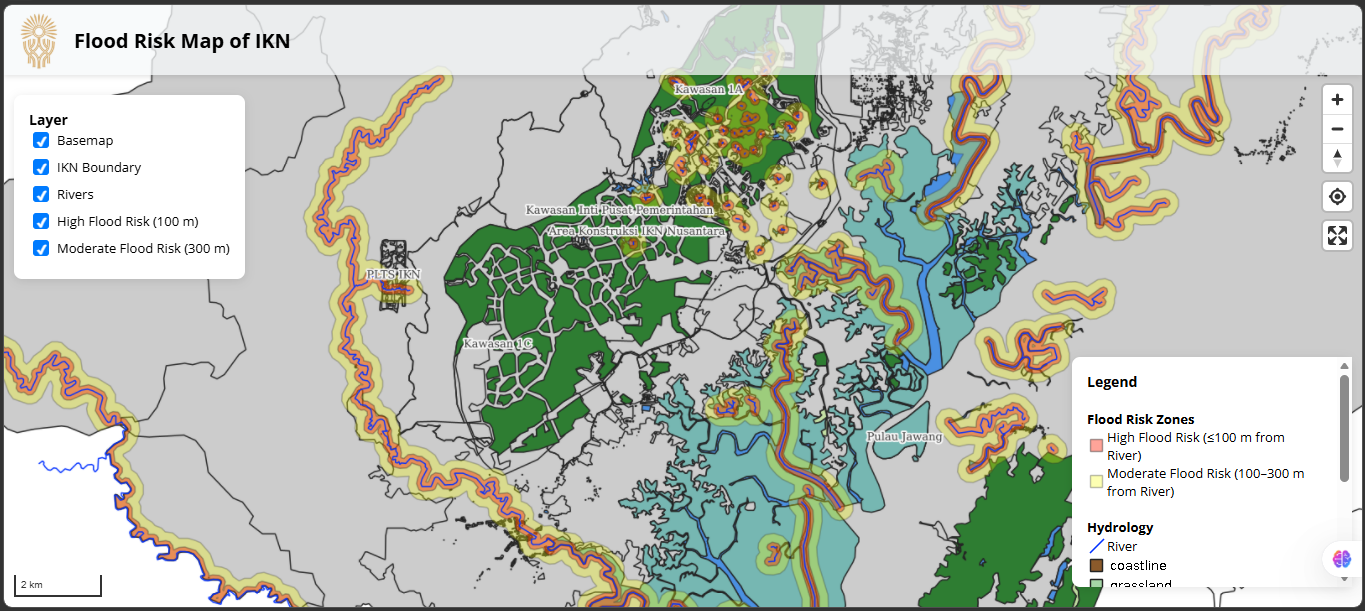
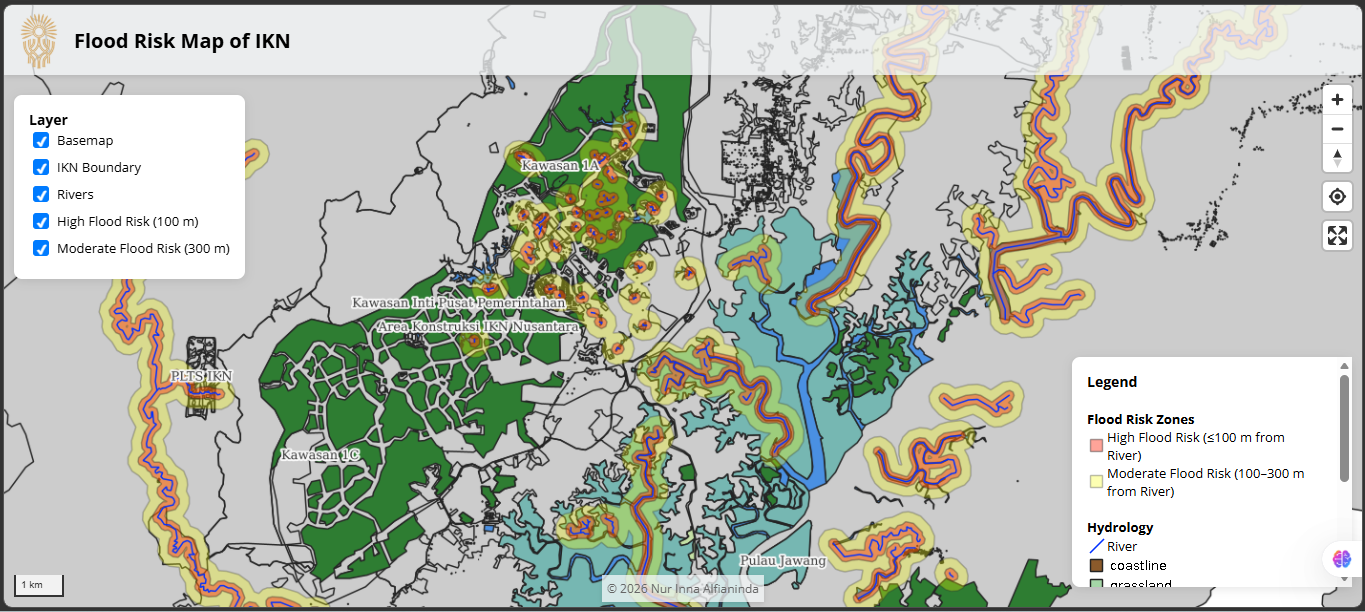
added copyright

diff --git a/frontend/index.html b/frontend/index.html
@@ -137,6 +137,19 @@ label {
     font-size: 14px;
 }
 
+#copyright {
+    position: absolute;
+    bottom: 5px;
+    left: 50%;
+    transform: translateX(-50%);
+    font-size: 12px;
+    color: #666;
+    z-index: 1;
+    background: #f6f8fabf;
+    box-shadow: 0 2px 5px rgba(0, 0, 0, 0.1);
+    padding: 5px;
+}
+
 .maplibregl-ctrl-top-right {
     top: 70px !important;
 }
@@ -185,6 +198,8 @@ label {
     </div>
     <img src="http://127.0.0.1:8081/geoserver/ikn/wms?service=WMS&request=GetLegendGraphic&layer=ikn:IKN_osm&format=image/png" alt="OSM IKN">
 </div>
+
+<div id="copyright"></div>
 
 <div id="loading">
     <div class="spinner"></div>

diff --git a/frontend/src/main.js b/frontend/src/main.js
@@ -122,6 +122,7 @@ map.addControl(new maplibregl.FullscreenControl());
 // Hide loading when map loads
 map.on('load', () => {
     document.getElementById('loading').style.display = 'none';
+    document.getElementById('copyright').innerHTML = `© ${new Date().getFullYear()} Nur Inna Alfianinda`;
 });
 
 // Layer toggle functionality
